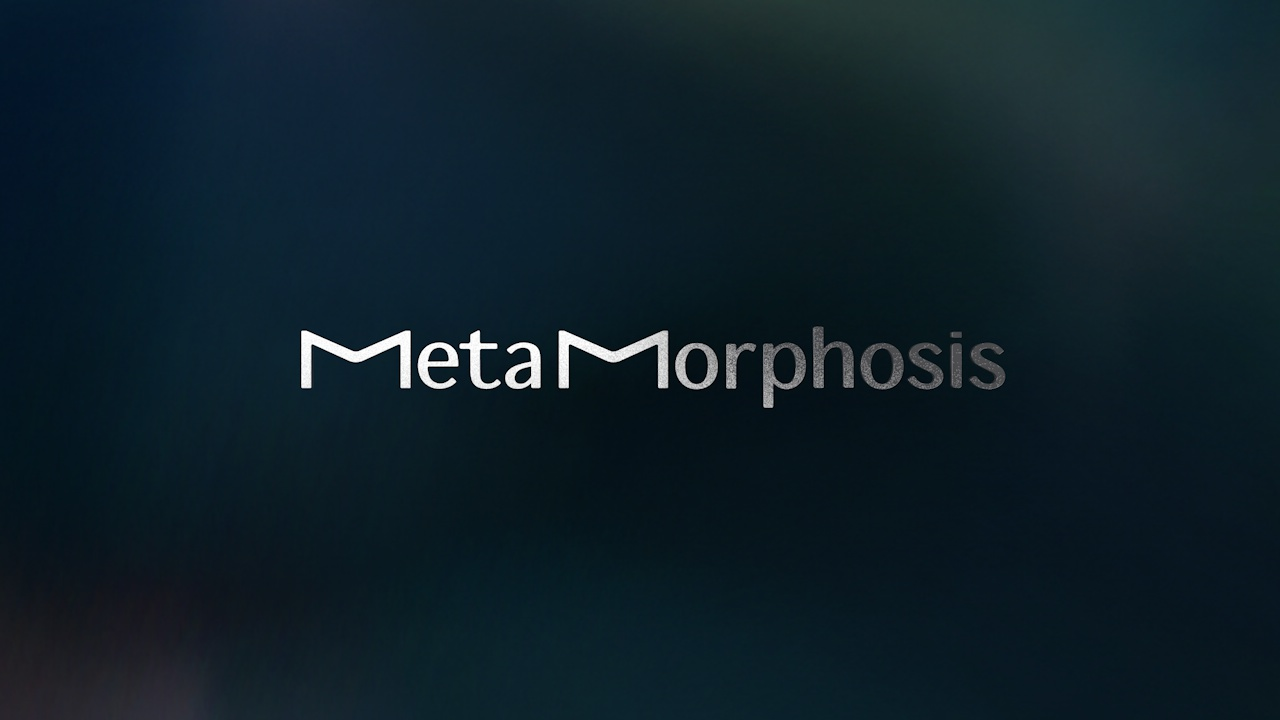
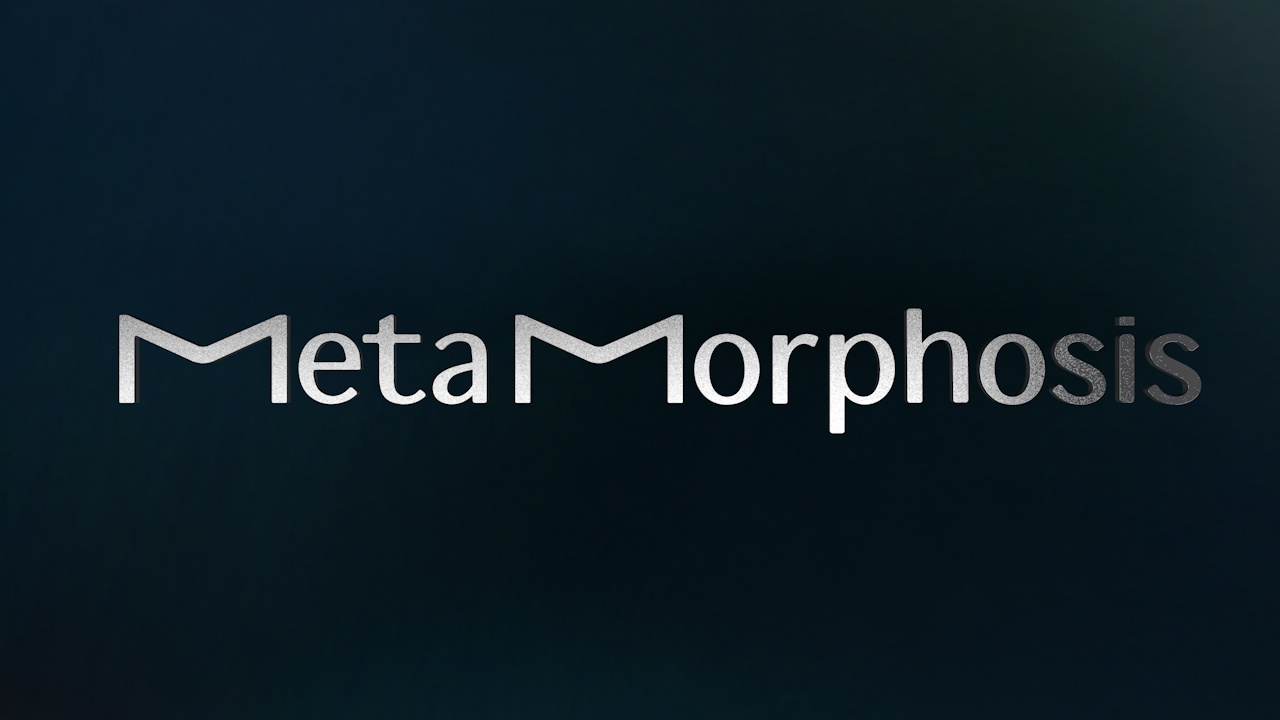
fond

Changed region(s): [[0.0938, 0.4278, 0.9375, 0.6111], [0.5312, 0.0, 0.9062, 0.2444], [0.0, 0.9167, 0.1875, 1.0]]

diff --git a/indexpr5.html b/indexpr5.html
@@ -46,7 +46,7 @@
 
       <div class="projets">
         <h1>METAMORPHOSIS</h1>
-        <img src="img/metaa2.jpg" class="img-fluid" alt="bâti magazine cover">
+        <img src="img/metaa.jpg" class="img-fluid" alt="bâti magazine cover">
       </div>
 
 <div class="descriptions">
@@ -61,28 +61,34 @@
     <h2>RESEARCH</h2>
 
     <div id="carouselExampleControls" class="carousel slide" data-bs-ride="carousel">
-      <div class="carousel-inner">
-        <div class="carousel-item active">
-          <img src="img/16.jpg" class="d-block w-100" alt="...">
-        </div>
-        <div class="carousel-item">
-          <img src="img/16.jpg" class="d-block w-100" alt="...">
-        </div>
-        <div class="carousel-item">
-          <img src="img/16.jpg" class="d-block w-100" alt="...">
-        </div>
-      </div>
-      <button class="carousel-control-prev" type="button" data-bs-target="#carouselExampleControls"  data-bs-slide="prev">
-        <span class="carousel-control-prev-icon" aria-hidden="true"></span>
-        <span class="visually-hidden">Previous</span>
-      </button>
-      <button class="carousel-control-next" type="button" data-bs-target="#carouselExampleControls"  data-bs-slide="next">
-        <span class="carousel-control-next-icon" aria-hidden="true"></span>
-        <span class="visually-hidden">Next</span>
-      </button>
-    </div>
+       <div class="carousel-inner">
+         <div class="carousel-item active">
+           <img src="img/.jpg" class="d-block w-100" alt="...">
+         </div>
+         <div class="carousel-item">
+           <img src="img/.jpg" class="d-block w-100" alt="...">
+         </div>
+         <div class="carousel-item">
+           <img src="img/.jpg" class="d-block w-100" alt="...">
+         </div>
+       </div>
+       <button class="carousel-control-prev" type="button" data-bs-target="#carouselExampleControls"  data-bs-slide="prev">
+         <span class="carousel-control-prev-icon" aria-hidden="true"> <svg width="34" height="22" viewBox="0 0 34 22" fill="none" xmlns="http://www.w3.org/2000/svg">
+         <path d="M34 11L4 11" stroke="black" stroke-width="3"/>
+         <path d="M12 2L3 10.6897L12 20" stroke="black" stroke-width="3"/>
+         </svg></span>
+         <span class="visually-hidden"></span>
+       </button>
+       <button class="carousel-control-next" type="button" data-bs-target="#carouselExampleControls"  data-bs-slide="next">
+         <span class="carousel-control-next-icon" aria-hidden="true"> <svg width="34" height="22" viewBox="0 0 34 22" fill="none" xmlns="http://www.w3.org/2000/svg">
+         <path d="M0 11L30 11" stroke="black" stroke-width="3"/>
+         <path d="M22 2L31 10.6897L22 20" stroke="black" stroke-width="3"/>
+         </svg></span>
+         <span class="visually-hidden"></span>
+       </button>
+     </div>
 
-
+<h2>PROJECT</h2>
 <img src="img/meta1.jpg" class="img-fluid" alt="illustration">
 
 

diff --git a/indexpr9.html b/indexpr9.html
@@ -105,9 +105,9 @@ Being interested in legends is a playful way to highlight Bordeaux wines and thu
   <div class="botonmenu">
   <nav>
     <ul>
-      <li><a href="indexpr5.html">PREV</a></li>
+      <li><a href="indexpr7.html">PREV</a></li>
       <li><a >BRANDING . ILLUSTRATION</a></li>
-      <li><a href="indexpr7.html">NEXT</a></li>
+      <li><a href="indexpr1.html">NEXT</a></li>
     </ul>
   </nav>
   </div>

diff --git a/indexpr7.html b/indexpr7.html
@@ -104,9 +104,9 @@
   <div class="botonmenu">
   <nav>
     <ul>
-      <li><a href="indexpr1.html">PREV</a></li>
+      <li><a href="indexpr6.html">PREV</a></li>
       <li><a >UI/UX</a></li>
-      <li><a href="indexpr3.html">NEXT</a></li>
+      <li><a href="indexpr9.html">NEXT</a></li>
     </ul>
   </nav>
   </div>

diff --git a/indexpr3.html b/indexpr3.html
@@ -46,7 +46,7 @@
 
       <div class="projets">
         <h1>MONDES IMAGINAIRES</h1>
-        <img src="img/mi.jpg" class="img-fluid" alt="bâti magazine cover">
+        <img src="img/mii.jpg" class="img-fluid" alt="bâti magazine cover">
       </div>
 
 <div class="descriptions">
